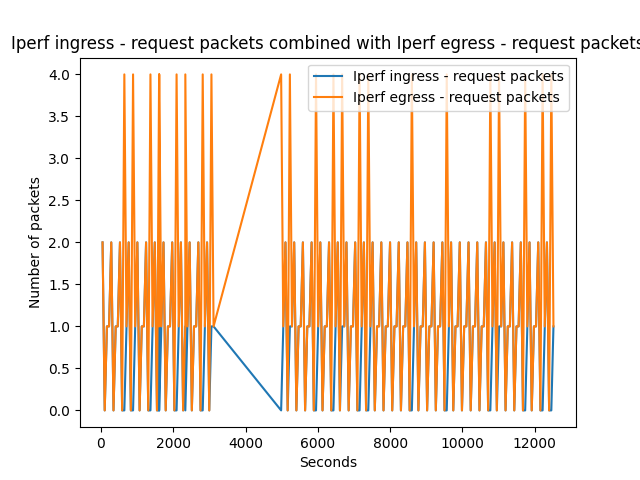
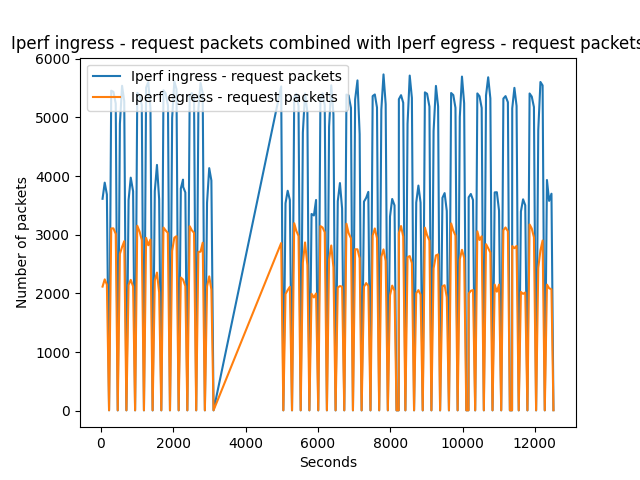
fix: mapping and group by 5 sec

diff --git a/1.5/graph.py b/1.5/graph.py
@@ -13,13 +13,14 @@ class LINE_INDEX:
     END = 1
     SOURCE_INTERFACE = 2
     SORUCE_IP = 3
-    DESTINATION_INTERFACE = 4
-    DESTINATION_IP = 5
-    DESTIONATION_PORT = 6
-    P = 7
-    FL = 8
-    PACKETS = 9
-    OCTETS = 10
+    SOURCE_PORT = 4
+    DESTINATION_INTERFACE = 5
+    DESTINATION_IP = 6
+    DESTIONATION_PORT = 7
+    P = 8
+    FL = 9
+    PACKETS = 10
+    OCTETS = 11
 
 
 class IP_DOMAIN_INFO:
@@ -48,8 +49,14 @@ def clockToDatetime(clock):
     return datetime.datetime.strptime(clock[5:], "%H:%M:%S.%f")
 
 
+def roundToNearestFive(numb):
+    base = 5
+    return base * round(numb/base)
+
+
 def clockToSecOffset(clock):
-    secOffset = (clockToDatetime(clock) - startClockTime).seconds
+    secOffset = roundToNearestFive(
+        (clockToDatetime(clock) - startClockTime).seconds)
     return secOffset
 
 
